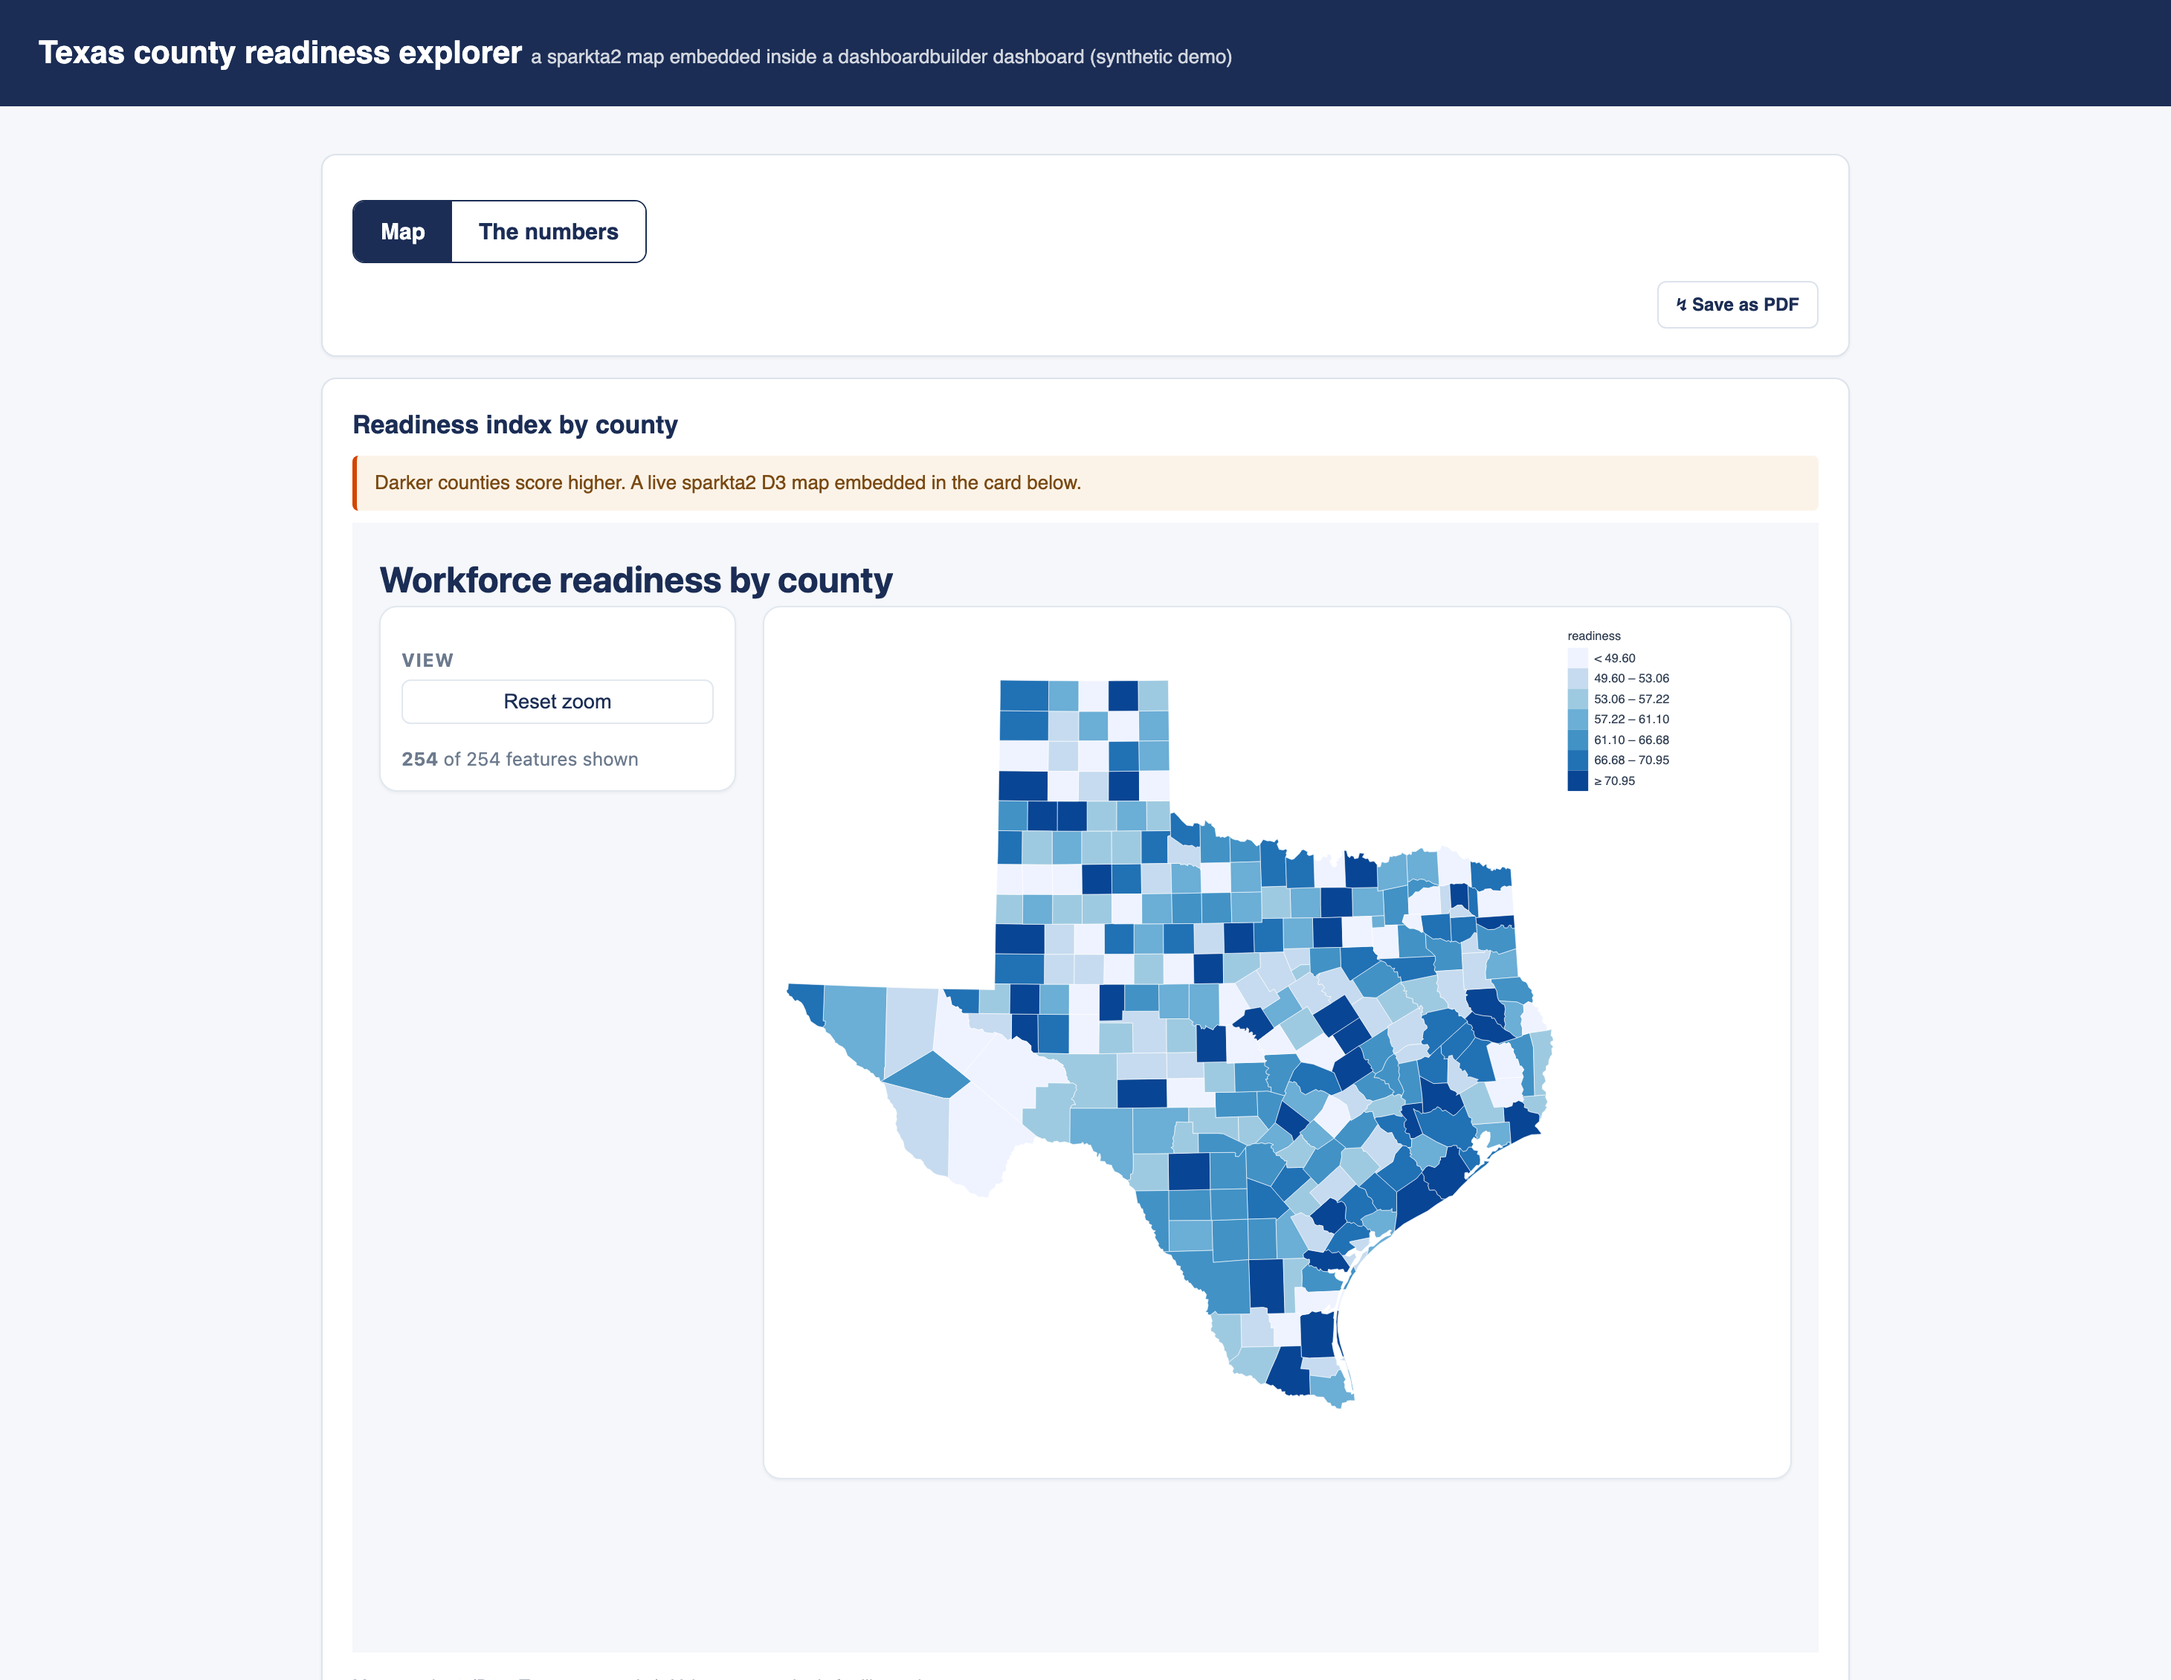
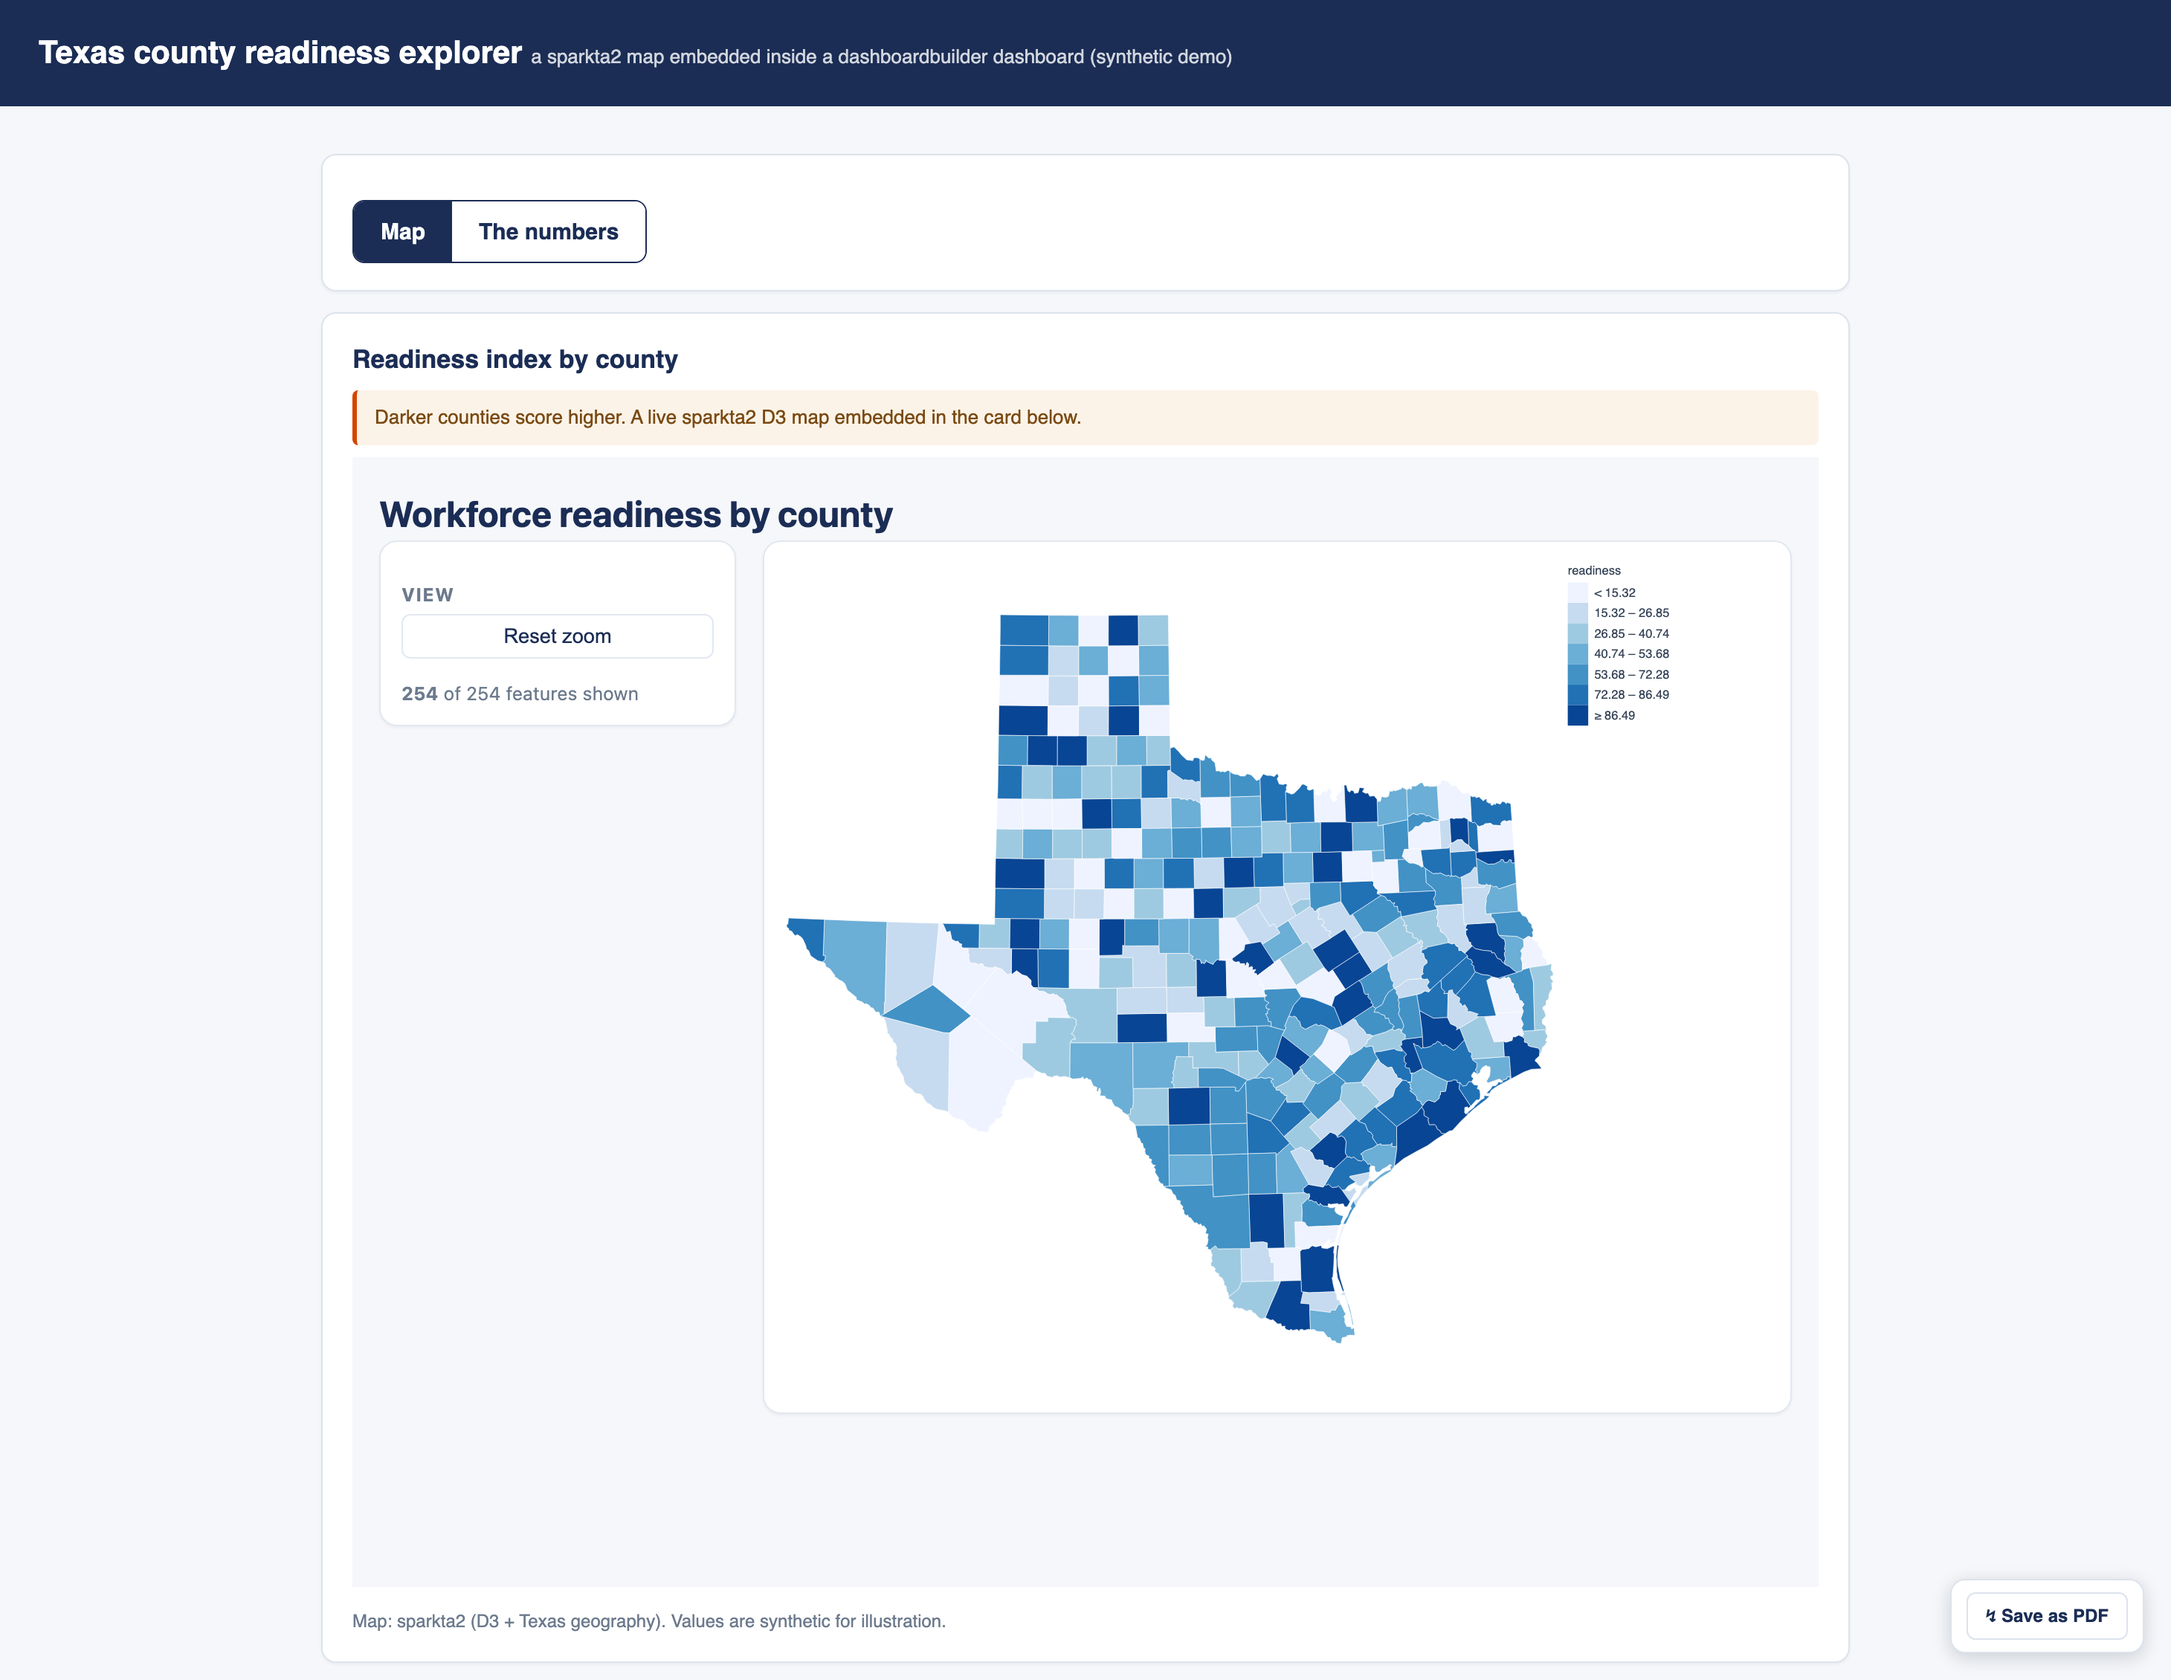
button add

diff --git a/dashboardbuilder.py b/dashboardbuilder.py
@@ -179,6 +179,7 @@ def _dbb_assemble():
             "tooltip": _dbb_g("DBB_TOOLTIP") == "1",
             "pdf": _dbb_g("DBB_PDFDL") == "1",
             "truepdf": _dbb_g("DBB_TRUEPDF") == "1",
+            "corner": _dbb_g("DBB_CORNER") == "1",
             "callout": _dbb_g("DBB_CALLOUT"),
             "sources": _dbb_g("DBB_SOURCES"),
         }
@@ -256,6 +257,10 @@ _DBB_TEMPLATE = r"""<!DOCTYPE html>
                   font:inherit;font-weight:600;cursor:pointer}
   .modebar button.on{background:var(--accent2);color:#fff}
   .cardtools{display:flex;gap:8px;justify-content:flex-end;margin:2px 0 10px}
+  /* corner option: float the global PDF button(s) fixed in the bottom-right */
+  .cornertools{position:fixed;right:18px;bottom:18px;margin:0!important;background:#fff;
+               border:1px solid var(--line);border-radius:10px;padding:8px 10px;
+               box-shadow:0 3px 12px rgba(15,23,42,.18);z-index:50;justify-content:flex-end}
   .dlbtn{background:#fff;color:var(--accent2);border:1px solid var(--line);border-radius:6px;
          padding:6px 12px;font:inherit;font-size:12px;font-weight:600;cursor:pointer}
   .dlbtn:hover{background:var(--bg)}
@@ -291,7 +296,7 @@ _DBB_TEMPLATE = r"""<!DOCTYPE html>
          padding:5px 8px;border-radius:5px;opacity:0;transition:opacity .08s;z-index:60;max-width:280px}
   .hide{display:none!important}
   @media print{
-    .cardtools,.dlbtn,.modebar,#selwrap,.toolt{display:none!important}
+    .cardtools,.dlbtn,.modebar,#selwrap,.toolt,.cornertools{display:none!important}
     body,.wrap{background:#fff}
     .card{box-shadow:none;border:1px solid #cbd2dc;break-inside:avoid}
     header,.fill,.refmark,.tile,svg,svg *{-webkit-print-color-adjust:exact;print-color-adjust:exact}
@@ -395,6 +400,8 @@ function refRowsFor(p){
       b.innerHTML="&#8623; Download PDF"; b.title="One-click PDF (loads a library from a CDN; needs internet)";
       b.onclick=truePdf; $("globaltools").appendChild(b); }
     $("globaltools").classList.remove("hide");
+    // corner option: pin the PDF button(s) to the bottom-right of the viewport
+    if(M.corner) $("globaltools").classList.add("cornertools");
   }
   // per-tab containers + per-panel cards
   DASH.tabs.forEach(t=>{

diff --git a/README.md b/README.md
@@ -33,9 +33,9 @@ Here the reference is a peer group ("similar counties"). Each panel draws the se
 
 **An actual `dashboardbuilder` output: another visualization embedded as a panel.**
 
-![A dashboardbuilder dashboard titled "Texas county readiness explorer" with Map and "The numbers" tabs and a Save as PDF button; the Map tab shows a sparkta2 blue choropleth of all 254 Texas counties with a readiness legend and a reset-zoom control, embedded as a panel inside the dashboard card.](images/example-embedded-map.png)
+![A dashboardbuilder dashboard titled "Texas county readiness explorer" with Map and "The numbers" tabs; the Map tab shows a sparkta2 blue choropleth of all 254 Texas counties with a readiness legend and a reset-zoom control, embedded as a panel inside the dashboard card, with a Save as PDF button floating in the bottom-right corner.](images/example-embedded-map.png)
 
-This dashboard is generated by [`example_dashboardbuilder_map.do`](example_dashboardbuilder_map.do): a `sparkta2` D3 choropleth of all 254 Texas counties, dropped into a card with the `html` panel type. The map is inlined, so the whole dashboard is still one self-contained file. See it live in the [demo gallery](https://ericabooth.github.io/dashboardbuilder_Example_Site/).
+This dashboard is generated by [`example_dashboardbuilder_map.do`](example_dashboardbuilder_map.do): a `sparkta2` D3 choropleth of all 254 Texas counties, dropped into a card with the `html` panel type. The map is inlined, so the whole dashboard is still one self-contained file. (The Save as PDF button sits in the bottom-right corner here via the `corner` build option.) See it live in the [demo gallery](https://ericabooth.github.io/dashboardbuilder_Example_Site/).
 
 ## Why this shape
 
@@ -85,6 +85,7 @@ PDF is opt-in, two flavors:
 
 - `pdf` — a **Save as PDF** button using the browser's print-to-PDF. Fully offline.
 - `truepdf` — a one-click **Download PDF** button. **Pulls `html2pdf.js` from a CDN**, so that button needs internet and won't work air-gapped (the rest of the dashboard still does); it degrades gracefully with a message when offline.
+- `corner` — float the PDF button(s) as a fixed button in the **bottom-right corner** of the page instead of the top controls card (handy above a tall embedded map, as in the county-map example above).
 
 Opening: a finished build **auto-opens in your default browser** (through the OS opener — `open` on macOS, `start` on Windows, `xdg-open` on Linux); pass `noopen` to suppress it, e.g. in batch runs or loops. The receipt also prints two clickable `browse` links — the file and its containing folder — whose link text is the full path, so you can click to open or copy the path to navigate there yourself. Reopen the last build any time with `dashboardbuilder openlast`, or open its folder with `dashboardbuilder openfolder`.
 
@@ -151,6 +152,7 @@ Untitled panels; Stata-date x variables; panels embedding >2,000 rows (collapse 
 | `dashboardbuilder.sthlp` | full help: syntax, options, selector semantics, troubleshooting, examples |
 | `example_dashboardbuilder.do` | four worked dashboards from shipped datasets (`auto`, `census`, `uslifeexp`, optional `nhanes2`) |
 | `example_dashboardbuilder_map.do` | extended example: embed a `sparkta2` choropleth map via the `html` panel type (needs `sparkta2`) |
+| `texas_counties.csv` | 254 Texas county names + FIPS, used by the map example |
 | `stata.toc`, `dashboardbuilder.pkg` | `net install` plumbing |
 
 ## Notes and limits (v1)
